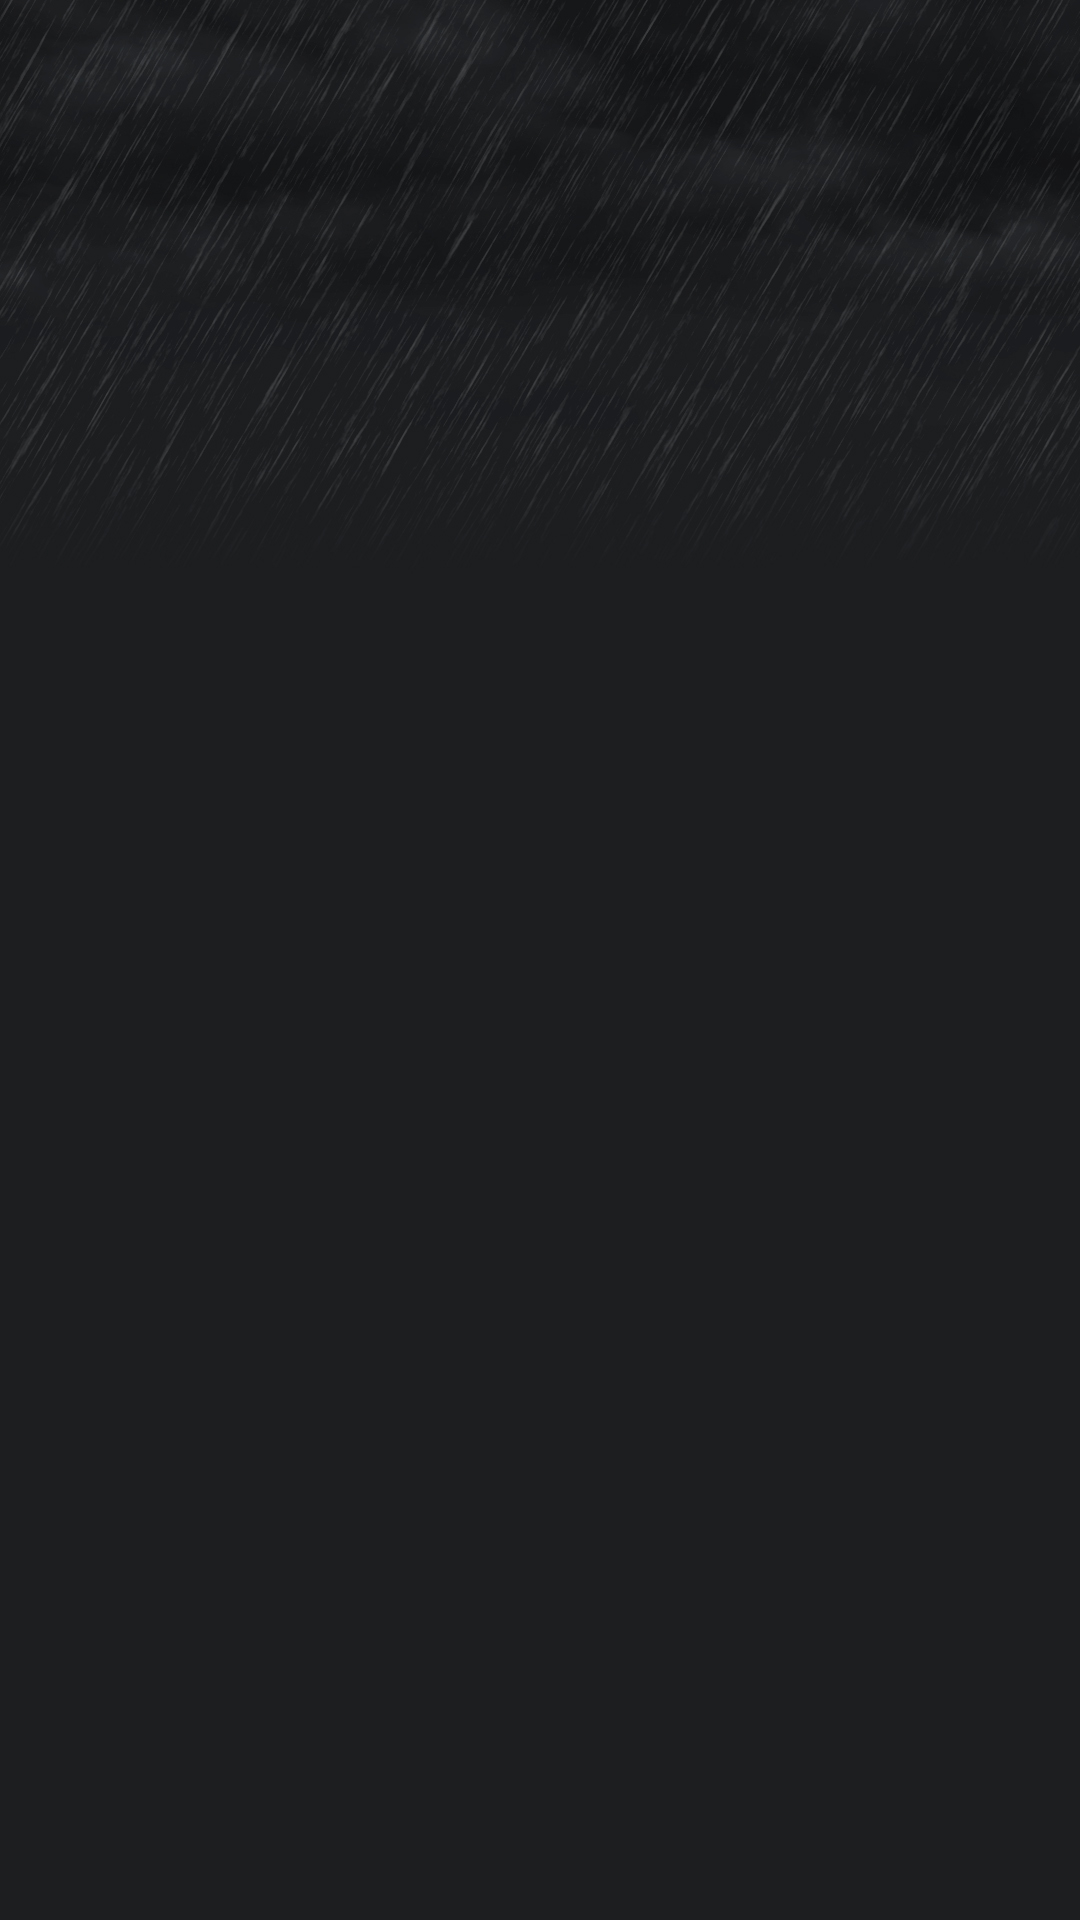
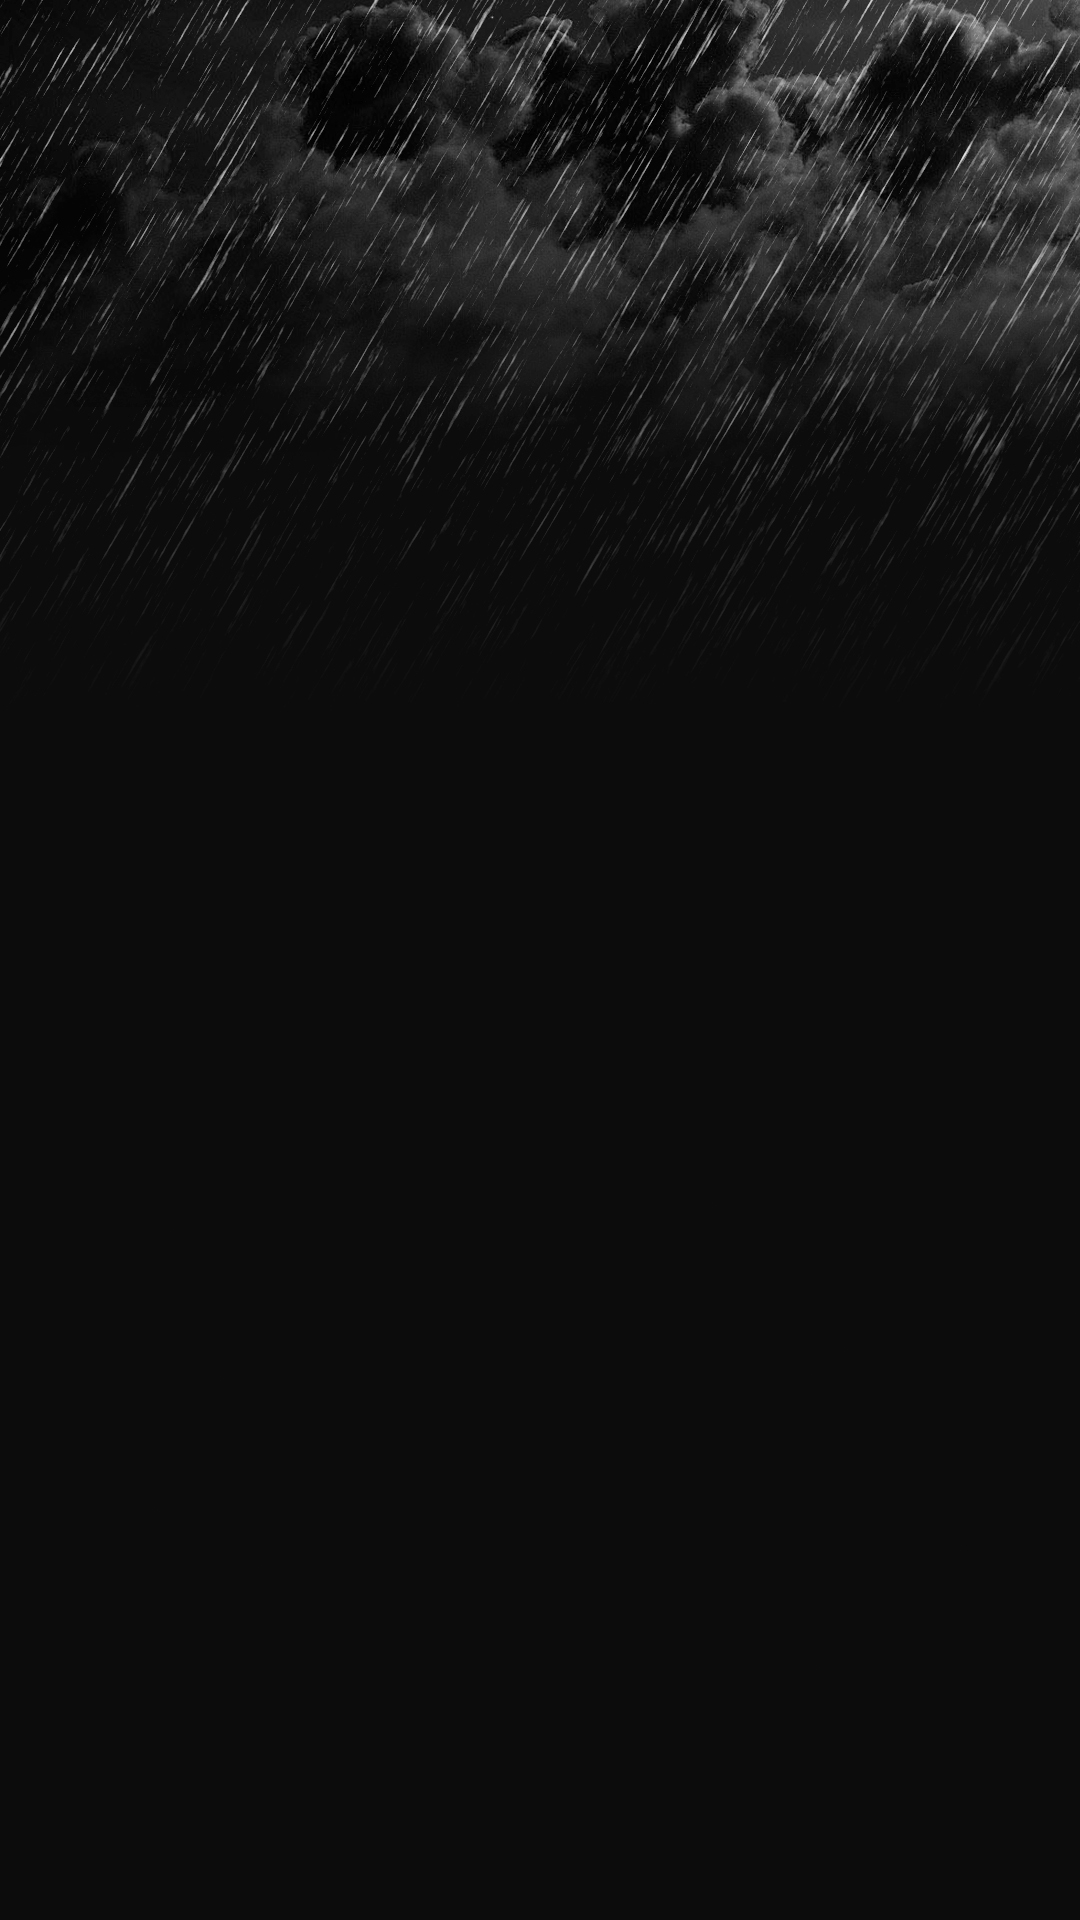
-Better layout -Better Backdrops -Temporary cycle weather for testing

Changed region(s): [[0.0, 0.0, 1.0, 0.2812], [0.7639, 0.25, 0.7944, 0.2812]]

diff --git a/src/WeatherApp/WeatherApp/MainPage.xaml b/src/WeatherApp/WeatherApp/MainPage.xaml
@@ -20,25 +20,25 @@
             <ImageBrush ImageSource="{Binding WeatherData, Converter={StaticResource WeatherBackground}}" Stretch="UniformToFill" AlignmentY="Top" />
         </Grid.Background>
         <Border Background="{StaticResource OpacityBackground}" />
-        <Grid Margin="20,35,20,20">
+        <Grid Margin="20">
             <Grid.RowDefinitions>
-                <RowDefinition Height="auto" />
                 <RowDefinition Height="*" />
+                <RowDefinition Height="auto" />
                 <RowDefinition Height="auto" />
                 <RowDefinition Height="auto" />
             </Grid.RowDefinitions>
            
-            <StackPanel Grid.Row="0" Orientation="Horizontal">                
+            <StackPanel Grid.Row="1" Orientation="Horizontal" Margin="0,10">                
                 <Image Grid.Row="0" VerticalAlignment="Center" HorizontalAlignment="Center"
                     Source="{Binding WeatherData, Converter={StaticResource WeatherIcon}}" MaxHeight="72" Margin="0,0,10,0"/>
                 
-                <TextBlock Text="{Binding Path=WeatherData.Temperature}" FontSize="42"
+                <TextBlock Text="{Binding Path=WeatherData.Temperature}" FontSize="50"
                            VerticalAlignment="Center"/>
-                <TextBlock Text="°C " FontSize="42"
+                <TextBlock Text="°C " FontSize="50"
                            VerticalAlignment="Center"/>
             </StackPanel>
 
-            <StackPanel Grid.Row="1" Orientation="Vertical" HorizontalAlignment="Stretch"
+            <StackPanel Grid.Row="0" Orientation="Vertical" HorizontalAlignment="Stretch"
                         VerticalAlignment="Center">
                 <RichTextBlock FontWeight="Bold" FontSize="42" HorizontalAlignment="Center" TextAlignment="Center" 
                            controlHelpers:RichTextBlockHelper.Sentence="{Binding SemanticWeather}"/>
@@ -68,4 +68,12 @@
             </Grid>
         </Grid>
     </Grid>
+    
+    <Page.BottomAppBar>
+        <CommandBar ClosedDisplayMode="Minimal" IsSticky="True" x:Name="appBar">
+            <CommandBar.SecondaryCommands>
+                <AppBarButton x:Name="BtnCycleWeather" Label="Cycle Weather" Click="BtnCycleWeather_Click" />
+            </CommandBar.SecondaryCommands>
+        </CommandBar>
+    </Page.BottomAppBar>
 </Page>

diff --git a/src/WeatherApp/WeatherApp/ViewModels/MainViewModel.cs b/src/WeatherApp/WeatherApp/ViewModels/MainViewModel.cs
@@ -62,10 +62,81 @@ namespace WeatherApp.ViewModels
         private async Task RefreshWeather(object arg)
         {
             var location = await _locationProvider.GetLocation();
-            WeatherData = await _weatherProvider.GetCurrentWeather(location.Point.Position.Latitude, location.Point.Position.Longitude, TemperatureUnit.Celsius);
+            var data = await _weatherProvider.GetCurrentWeather(location.Point.Position.Latitude, location.Point.Position.Longitude, TemperatureUnit.Celsius);
 
-            var sentence = await _sentenceProvider.GetSentence(WeatherData);
+            await SetWeather(data);
+        }
+
+        private async Task SetWeather(BaseWeatherData data)
+        {
+            var sentence = await _sentenceProvider.GetSentence(data);
             SemanticWeather = sentence;
+            WeatherData = data;
+        }
+
+        int currentWeather = 0;
+        internal async void CycleWeather()
+        {
+            var weatherList = new List<BaseWeatherData>();
+            weatherList.Add(NewMethod(OpenWeatherMapApiClient.WeatherConditionCode.ClearSky, WeatherIconType.ClearSky, TimeOfDay.Day));
+            weatherList.Add(NewMethod(OpenWeatherMapApiClient.WeatherConditionCode.BrokenClouds, WeatherIconType.BrokenClouds, TimeOfDay.Day));
+            weatherList.Add(NewMethod(OpenWeatherMapApiClient.WeatherConditionCode.FewClouds, WeatherIconType.FewClouds, TimeOfDay.Day));
+            weatherList.Add(NewMethod(OpenWeatherMapApiClient.WeatherConditionCode.Mist, WeatherIconType.Mist, TimeOfDay.Day));
+            weatherList.Add(NewMethod(OpenWeatherMapApiClient.WeatherConditionCode.ShowerRain, WeatherIconType.Rain, TimeOfDay.Day));
+            weatherList.Add(NewMethod(OpenWeatherMapApiClient.WeatherConditionCode.ScatteredClouds, WeatherIconType.ScatteredClouds, TimeOfDay.Day));
+            weatherList.Add(NewMethod(OpenWeatherMapApiClient.WeatherConditionCode.ShowerRain, WeatherIconType.ShowerRain, TimeOfDay.Day));
+            weatherList.Add(NewMethod(OpenWeatherMapApiClient.WeatherConditionCode.Snow, WeatherIconType.Snow, TimeOfDay.Day));
+            weatherList.Add(NewMethod(OpenWeatherMapApiClient.WeatherConditionCode.Thunderstorm, WeatherIconType.Thunderstorm, TimeOfDay.Day));
+            weatherList.Add(NewMethod(OpenWeatherMapApiClient.WeatherConditionCode.OvercastClouds, WeatherIconType.ScatteredClouds, TimeOfDay.Day));
+            weatherList.Add(NewMethod(OpenWeatherMapApiClient.WeatherConditionCode.Sleet, WeatherIconType.Snow, TimeOfDay.Day));
+            weatherList.Add(NewMethod(OpenWeatherMapApiClient.WeatherConditionCode.ClearSky, WeatherIconType.ClearSky, TimeOfDay.Night));
+            weatherList.Add(NewMethod(OpenWeatherMapApiClient.WeatherConditionCode.BrokenClouds, WeatherIconType.BrokenClouds, TimeOfDay.Night));
+            weatherList.Add(NewMethod(OpenWeatherMapApiClient.WeatherConditionCode.FewClouds, WeatherIconType.FewClouds, TimeOfDay.Night));
+            weatherList.Add(NewMethod(OpenWeatherMapApiClient.WeatherConditionCode.Mist, WeatherIconType.Mist, TimeOfDay.Night));
+            weatherList.Add(NewMethod(OpenWeatherMapApiClient.WeatherConditionCode.ShowerRain, WeatherIconType.Rain, TimeOfDay.Night));
+            weatherList.Add(NewMethod(OpenWeatherMapApiClient.WeatherConditionCode.ScatteredClouds, WeatherIconType.ScatteredClouds, TimeOfDay.Night));
+            weatherList.Add(NewMethod(OpenWeatherMapApiClient.WeatherConditionCode.ShowerRain, WeatherIconType.ShowerRain, TimeOfDay.Night));
+            weatherList.Add(NewMethod(OpenWeatherMapApiClient.WeatherConditionCode.Snow, WeatherIconType.Snow, TimeOfDay.Night));
+            weatherList.Add(NewMethod(OpenWeatherMapApiClient.WeatherConditionCode.Thunderstorm, WeatherIconType.Thunderstorm, TimeOfDay.Night));
+            weatherList.Add(NewMethod(OpenWeatherMapApiClient.WeatherConditionCode.OvercastClouds, WeatherIconType.ScatteredClouds, TimeOfDay.Night));
+            weatherList.Add(NewMethod(OpenWeatherMapApiClient.WeatherConditionCode.Sleet, WeatherIconType.Snow, TimeOfDay.Night));
+
+            await SetWeather(weatherList[currentWeather]);
+
+            if (currentWeather == 21)
+                currentWeather = 0;
+            else
+                currentWeather++;
+        }
+
+        private static Provider.OpenWeatherMap.WeatherData NewMethod(OpenWeatherMapApiClient.WeatherConditionCode weatherId, WeatherIconType iconType, TimeOfDay timeOfDay)
+        {
+            var weatherData = new WeatherApp.Provider.OpenWeatherMap.WeatherData()
+            {
+                CityName = "Whatever",
+                Date = DateTime.Now,
+                Humidity = 60,
+                IconType = iconType,
+                Temperature = 25,
+                WindSpeed = 5,
+                WeatherID = weatherId
+            };
+
+            var semantic = new WeatherApp.Provider.OpenWeatherMap.SemanticOpenWeatherMap(weatherData);
+            weatherData.SemanticWeather = semantic.GetSemantic();
+
+            if (timeOfDay == TimeOfDay.Day)
+            {
+                weatherData.Sunrise = DateTime.Now.AddHours(-6);
+                weatherData.Sunset = DateTime.Now.AddHours(6);
+            }
+            else
+            {
+                weatherData.Sunrise = DateTime.Now.AddHours(-12);
+                weatherData.Sunset = DateTime.Now.AddHours(-6);
+            }
+            
+            return weatherData;
         }
     }
 }

diff --git a/src/WeatherApp/WeatherApp/MainPage.xaml.cs b/src/WeatherApp/WeatherApp/MainPage.xaml.cs
@@ -52,5 +52,10 @@ namespace WeatherApp
             // If you are using the NavigationHelper provided by some templates,
             // this event is handled for you.
         }
+
+        private void BtnCycleWeather_Click(object sender, RoutedEventArgs e)
+        {
+            ViewModel.CycleWeather();
+        }
     }
 }
